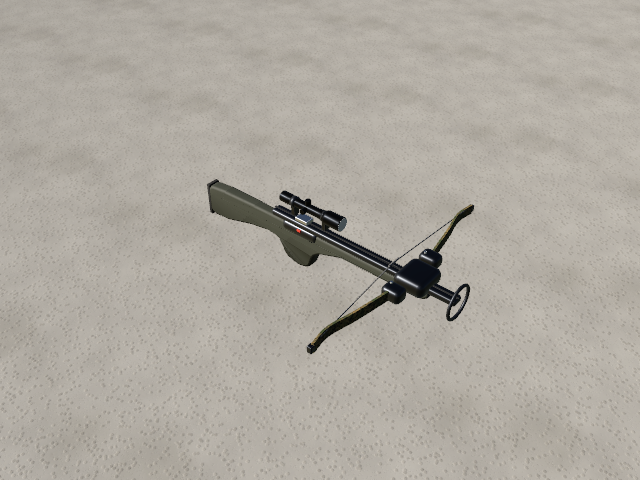
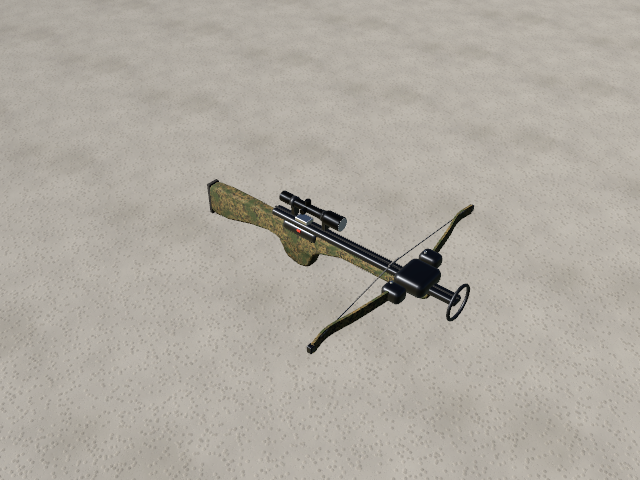
Fix bow/crossbow string joints; case-hardened, nickel, camo materials; sign off lever, break-action, crossbow

Changed region(s): [[0.3125, 0.375, 0.5312, 0.5312], [0.5312, 0.5312, 0.5938, 0.5625], [0.5938, 0.5625, 0.625, 0.5938]]

diff --git a/Sources/RealMaterials/Library/Hunting.swift b/Sources/RealMaterials/Library/Hunting.swift
@@ -12,7 +12,7 @@ public extension MaterialLibrary {
         // Hot-blued barrel and receiver steel: blue-black, polished lines.
         MaterialSpec(key: "metal.blued-steel", program: .brushedMetal).with {
             $0.colorA = linear(0x2B3542); $0.colorB = linear(0x161C25)
-            $0.knobs = V4(0.5, 0.34, 0.45, 0.35); $0.seed = 3302; $0.tileSize = 0.08; $0.normalStrength = 0.35
+            $0.knobs = V4(0.7, 0.4, 0.8, 0.8); $0.seed = 3302; $0.tileSize = 0.08; $0.normalStrength = 0.35
             $0.hasMetallicMap = true; $0.metallic = 1; $0.roughness = 0.34
         },
         // Parkerized / matte phosphate finish for bolts and small parts: grey-green, rough.
@@ -76,7 +76,7 @@ public extension MaterialLibrary {
         },
         // Powder-coated steel with chips, scuffs and grime at 22 cm repeat (ladder stand, hardware). Tint for colour.
         MaterialSpec(key: "metal.powdercoat-worn", program: .paintedMetal).with {
-            $0.colorA = linear(0x3A4430); $0.colorC = linear(0x7A7A74, 0.9); $0.knobs = V4(0.85, 0.75, 0.5, 0)
+            $0.colorA = linear(0x3A4430); $0.colorC = linear(0x7A7A74, 0.9); $0.knobs = V4(1.0, 0.9, 0.5, 0)
             $0.seed = 3315; $0.tileSize = 0.16; $0.hasMetallicMap = true; $0.normalStrength = 1.2; $0.roughness = 0.5
         },
         // Mud and surface rust splashed on steel feet: dark and desaturated.
@@ -86,8 +86,8 @@ public extension MaterialLibrary {
         },
         // Hunting blind canvas: heavy duck weave at 3 cm repeat with stains. Tint for colour.
         MaterialSpec(key: "fabric.blind", program: .fabricWeave).with {
-            $0.colorA = linear(0x6E7549); $0.colorB = linear(0x5A6040, 0.25); $0.colorC = linear(0x3A3226, 0.45)
-            $0.knobs = V4(36, 0.5, 0.9, 0); $0.seed = 3317; $0.tileSize = 0.03; $0.normalStrength = 3.4; $0.roughness = 0.9
+            $0.colorA = linear(0x8A9356); $0.colorB = linear(0x6E7448, 0.5); $0.colorC = linear(0x4A3E2C, 0.8)
+            $0.knobs = V4(36, 1.0, 0.9, 0); $0.seed = 3317; $0.tileSize = 0.03; $0.normalStrength = 3.4; $0.roughness = 0.9
         },
         // Pressed trace-mineral salt block: red-brown crystalline body, pale crystals, pits, light rain streaks.
         MaterialSpec(key: "stone.salt-block", program: .rockGranite).with {
@@ -98,6 +98,18 @@ public extension MaterialLibrary {
         // Dried mud and grime caked on gear: dark brown, rough, with dirt streaks.
         MaterialSpec(key: "plastic.grime", program: .plastic).with {
             $0.colorA = linear(0x4A3A2A); $0.knobs = V4(0.2, 0.9, 0.95, 0); $0.seed = 3319; $0.tileSize = 0.02; $0.resolution = 256; $0.normalStrength = 1.4
+        },
+        // Colour case-hardened receiver: steel with straw, blue and plum mottling from the quench.
+        MaterialSpec(key: "metal.case-hardened", program: .polishedMetal).with {
+            $0.colorA = linear(0x4E5258); $0.colorB = linear(0x6E5A44); $0.colorC = linear(0x34485E)
+            $0.knobs = V4(0.6, 0.4, 0, 0.38); $0.seed = 3320; $0.tileSize = 0.07; $0.normalStrength = 0.3
+            $0.hasMetallicMap = true; $0.metallic = 1; $0.roughness = 0.38
+        },
+        // Worn nickel plating: tarnished grey with dark spotting at 6 cm repeat.
+        MaterialSpec(key: "metal.nickel-worn", program: .polishedMetal).with {
+            $0.colorA = linear(0xB8BAB8); $0.colorB = linear(0x6E665A); $0.colorC = linear(0x58625A)
+            $0.knobs = V4(0.85, 0.35, 0, 0.36); $0.seed = 3321; $0.tileSize = 0.06; $0.normalStrength = 0.3
+            $0.hasMetallicMap = true; $0.metallic = 1; $0.roughness = 0.36
         },
     ]
 }

diff --git a/Sources/RealLibrary/Props/Hunting/Crossbow.swift b/Sources/RealLibrary/Props/Hunting/Crossbow.swift
@@ -18,7 +18,7 @@ public struct Crossbow: RealArticulated {
     public var drawLength: Float = 0.30
     /// Limb flex at full draw in degrees.
     public var limbFlex: Float = 10
-    public var stock: MaterialKey = "plastic.stock-synthetic:2A2E22"
+    public var stock: MaterialKey = "paint.bow-camo"
     public var limbs: MaterialKey = "paint.bow-camo"
     public var hardware: MaterialKey = "metal.anodized-gunmetal:3A3D42"
     public var string: MaterialKey = "fabric.bowstring"
@@ -37,7 +37,7 @@ public struct Crossbow: RealArticulated {
         rig.part("draw", pivot: P.p(V3(nockRest, sy, 0)), joint: .slide(axis: V3(-1, 0, 0), 0...drawLength, duration: 0.8))
         rig.part("limb-right", pivot: P.p(pivotR), joint: Joint(.revolute, axis: V3(0, 1, 0), range: -(limbFlex + 2)...(limbFlex + 2), mimic: .init("draw", ratio: -limbFlex / drawLength)))
         rig.part("limb-left", pivot: P.p(pivotL), joint: Joint(.revolute, axis: V3(0, 1, 0), range: -(limbFlex + 2)...(limbFlex + 2), mimic: .init("draw", ratio: limbFlex / drawLength)))
-        rig.part("string", pivot: P.p(V3(nockRest, sy, 0)), joint: Joint(.revolute, axis: V3(0, 1, 0), range: 0...0), options: Self.levels)
+        rig.part("string", pivot: P.p(V3(nockRest, sy, 0)), joint: .fixed, options: Self.levels)
         rig.part("trigger", pivot: P.p(V3(0.392, -0.040, 0)), joint: .hinge(axis: V3(0, 0, 1), -16...0, duration: 0.15))
         rig.part("safety", pivot: P.p(V3(0.380, -0.022, 0.0215)), joint: .slide(axis: V3(1, 0, 0), 0...0.008, duration: 0.1))
         rig.optionLinks = [RigOptionLink(part: "string", joint: "draw", thresholds: (1..<Self.levels).map { (Float($0) - 0.5) * drawLength / Float(Self.levels - 1) })]

diff --git a/Sources/RealLibrary/Props/Hunting/CompoundBow.swift b/Sources/RealLibrary/Props/Hunting/CompoundBow.swift
@@ -38,7 +38,7 @@ public struct CompoundBow: RealArticulated {
         rig.part("draw", pivot: P.p(V3(-brace, nockY, 0)), joint: .slide(axis: V3(-1, 0, 0), 0...drawLength, duration: 0.9))
         rig.part("cam-top", pivot: P.p(V3(ax, h, 0)), joint: Joint(.revolute, axis: V3(0, 0, 1), range: -camAngle...camAngle, mimic: .init("draw", ratio: camAngle / drawLength)))
         rig.part("cam-bottom", pivot: P.p(V3(ax, -h, 0)), joint: Joint(.revolute, axis: V3(0, 0, 1), range: -camAngle...camAngle, mimic: .init("draw", ratio: -camAngle / drawLength)))
-        rig.part("string", pivot: P.p(V3(-brace, nockY, 0)), joint: Joint(.revolute, axis: V3(0, 0, 1), range: 0...0), options: Self.levels)
+        rig.part("string", pivot: P.p(V3(-brace, nockY, 0)), joint: .fixed, options: Self.levels)
         rig.optionLinks = [RigOptionLink(part: "string", joint: "draw", thresholds: (1..<Self.levels).map { (Float($0) - 0.5) * drawLength / Float(Self.levels - 1) })]
 
         for lod in 0..<2 {

diff --git a/Sources/RealLibrary/Props/Hunting/LeverActionRifle.swift b/Sources/RealLibrary/Props/Hunting/LeverActionRifle.swift
@@ -63,7 +63,7 @@ public struct LeverActionRifle: RealArticulated {
                 rig.base[lod].add(HuntKit.box(V3(0.600, 0.0178, -0.0045), V3(0.010, 0.010, 0.0025), r: 0.0007, brightM), P.at())
             }
             // Receiver, loading gate, top ejection slot, tang.
-            rig.base[lod].add(HuntKit.box(V3(0.400, -0.0055, 0), V3(0.200, 0.061, 0.032), r: 0.011, steelM), P.at())
+            rig.base[lod].add(HuntKit.box(V3(0.400, -0.0055, 0), V3(0.200, 0.061, 0.032), r: 0.011, "metal.case-hardened"), P.at())
             rig.base[lod].add(HuntKit.box(V3(0.470, -0.006, 0.0165), V3(0.032, 0.022, 0.002), r: 0.0008, "metal.bolt-bright"), P.at())
             rig.base[lod].add(HuntKit.box(V3(0.400, 0.0252, 0), V3(0.120, 0.003, 0.013), r: 0.0008, "metal.parkerized"), P.at())
             rig.base[lod].add(HuntKit.box(V3(0.330, -0.020, 0), V3(0.080, 0.012, 0.022), r: 0.003, steelM), P.at())

diff --git a/Sources/RealLibrary/Props/Hunting/BreakActionShotgun.swift b/Sources/RealLibrary/Props/Hunting/BreakActionShotgun.swift
@@ -20,7 +20,7 @@ public struct BreakActionShotgun: RealArticulated {
     /// Barrel steel.
     public var steel: MaterialKey = "metal.blued-steel"
     /// Silvered action.
-    public var action: MaterialKey = "metal.bolt-bright"
+    public var action: MaterialKey = "metal.nickel-worn"
     public var pad: MaterialKey = "rubber.recoil-pad"
     public init() {}
 

diff --git a/CATALOG.md b/CATALOG.md
@@ -1020,10 +1020,10 @@ Generated by `swift run -q realityhd catalog`. Do not edit by hand.
 | [`glazed-terracotta-cladding-tile`](docs/assets/glazed-terracotta-cladding-tile.png) | prop, architecture, facade, decor | 6176 | 12000 | `concrete.smooth:C8C2B4` `ceramic.bisque` `ceramic.celadon:2F6E5E` `ceramic.celadon:1F4F44` `ceramic.celadon:C9A84A` `metal.galvanized` | realityhd | Glazed terracotta tile, 0.6 m square: stepped chevron relief in glossy faience glaze with crazing, buttered joints and anchor tabs. |
 | [`architectural-concrete-board-form-panel`](docs/assets/architectural-concrete-board-form-panel.png) | prop, architecture, facade, stone | 12232 | 15000 | `concrete.rough:8C877E` `concrete.rough:A39E92` `concrete.smooth:5A5853` `concrete.smooth:4A4844` `concrete.smooth:8E8B86` `concrete.rough:7A756D` | realityhd | Board-formed architectural concrete panel, 1.5 x 3.0 m: 150 mm timber board impressions, form-tie cones, chamfered edges and lift-joint weathering. |
 | [`bolt-action-rifle`](docs/assets/bolt-action-rifle.png) | prop, hunting, handheld, articulated, wood, metal | 14780 / 8528 | 15000 | `wood.walnut-stock` `rubber.recoil-pad` `plastic.stock-synthetic` `metal.blued-steel` `metal.parkerized` `metal.anodized-gunmetal:15171A` `plastic.lens-clear` `metal.bolt-bright` | realityhd | Bolt-action hunting rifle, 1.12 m: walnut stock, blued barrel and receiver, 3-9x40 scope, articulated bolt (handle lift, draw back, close). |
-| [`lever-action-rifle`](docs/assets/lever-action-rifle.png) | prop, hunting, handheld, articulated, wood, metal | 8904 / 6356 | 12000 | `wood.walnut-stock` `metal.blued-steel` `metal.bolt-bright` `metal.parkerized` | realityhd | Lever-action carbine, 0.99 m: walnut stock and forend, blued barrel with tube magazine, articulated lever, bolt and hammer. |
+| [`lever-action-rifle`](docs/assets/lever-action-rifle.png) | prop, hunting, handheld, articulated, wood, metal | 8904 / 6356 | 12000 | `wood.walnut-stock` `metal.blued-steel` `metal.bolt-bright` `metal.case-hardened` `metal.parkerized` | realityhd | Lever-action carbine, 0.99 m: walnut stock and forend, blued barrel with tube magazine, articulated lever, bolt and hammer. |
 | [`pump-shotgun`](docs/assets/pump-shotgun.png) | prop, hunting, handheld, articulated, wood, metal | 9906 / 5886 | 14000 | `wood.walnut-stock` `rubber.recoil-pad` `metal.blued-steel` `metal.parkerized` `metal.bolt-bright` `metal.cartridge-brass` `wood.walnut-stock:2A160C` | realityhd | Pump-action 12 gauge shotgun, 1.26 m: walnut stock, blued barrel over tube magazine, articulated sliding pump forend. |
-| [`break-action-shotgun`](docs/assets/break-action-shotgun.png) | prop, hunting, handheld, articulated, wood, metal | 8390 / 6562 | 14000 | `wood.walnut-stock` `rubber.recoil-pad` `metal.bolt-bright` `metal.blued-steel` `metal.cartridge-brass` | realityhd | Over-and-under 12 gauge, 1.12 m: walnut stock and forend, blued barrels, articulated break hinge and top lever. |
-| [`crossbow`](docs/assets/crossbow.png) | prop, hunting, handheld, articulated, metal, plastic | 12598 / 8387 | 14000 | `plastic.stock-synthetic:2A2E22` `rubber.recoil-pad` `metal.anodized-gunmetal:3A3D42` `plastic.stock-synthetic` `metal.bolt-bright` `metal.anodized-gunmetal:15171A` `plastic.lens-clear` `fabric.bowstring:2A2218` `paint.bow-camo` `fabric.bowstring` `plastic.fletching:C03020` | realityhd | Crossbow, 0.86 m: synthetic stock, recurve limbs, scope, articulated string (cocked and fired). |
+| [`break-action-shotgun`](docs/assets/break-action-shotgun.png) | prop, hunting, handheld, articulated, wood, metal | 8390 / 6562 | 14000 | `wood.walnut-stock` `rubber.recoil-pad` `metal.nickel-worn` `metal.blued-steel` `metal.bolt-bright` `metal.cartridge-brass` | realityhd | Over-and-under 12 gauge, 1.12 m: walnut stock and forend, blued barrels, articulated break hinge and top lever. |
+| [`crossbow`](docs/assets/crossbow.png) | prop, hunting, handheld, articulated, metal, plastic | 12598 / 8387 | 14000 | `paint.bow-camo` `rubber.recoil-pad` `metal.anodized-gunmetal:3A3D42` `plastic.stock-synthetic` `metal.bolt-bright` `metal.anodized-gunmetal:15171A` `plastic.lens-clear` `fabric.bowstring:2A2218` `fabric.bowstring` `plastic.fletching:C03020` | realityhd | Crossbow, 0.86 m: synthetic stock, recurve limbs, scope, articulated string (cocked and fired). |
 | [`arrow`](docs/assets/arrow.png) | prop, hunting, handheld, plastic, metal | 1436 | 2500 | `plastic.carbon-shaft` `plastic.fletching:F2F0E8` `plastic.stock-synthetic` `plastic.fletching:E0561A` `metal.bolt-bright` `plastic.grime` | realityhd | Carbon hunting arrow, 0.78 m: graphite shaft, three vanes, lighted nock, three-blade broadhead. |
 | [`crossbow-bolt`](docs/assets/crossbow-bolt.png) | prop, hunting, handheld, plastic, metal | 1364 | 2000 | `plastic.carbon-shaft` `plastic.fletching:7FD01A` `plastic.stock-synthetic` `plastic.fletching:E8E4D8` `metal.bolt-bright` `plastic.grime` | realityhd | Crossbow bolt, 0.42 m: carbon shaft, low vanes, half-moon nock, broadhead. |
 | [`rifle-cartridge`](docs/assets/rifle-cartridge.png) | prop, hunting, handheld, metal | 3032 | 3500 | `metal.cartridge-brass` `metal.bolt-bright` `metal.bullet-copper` `metal.bolt-bright:7A7E80` | realityhd | .308 Winchester cartridge, 71 mm: brass case with rim and primer, copper soft-point bullet. |
@@ -1319,8 +1319,8 @@ Live with `RealityHD.articulated(id)` or `scene.addLive`; bake one state with `b
 | [`lever-action-rifle`](docs/assets/lever-action-rifle.png) | closed, open, cocked, trigger | `lever` -62...0°, `trigger` -14...0°, `hammer` -38...0° | 8904-8904 |
 | [`pump-shotgun`](docs/assets/pump-shotgun.png) | closed, pumped, trigger | `pump` 0...0.075 m, `trigger` -14...0° | 9906-9906 |
 | [`break-action-shotgun`](docs/assets/break-action-shotgun.png) | closed, open, lever, trigger | `barrels` -32...0°, `top-lever` 0...28°, `trigger` -14...0° | 8390-8390 |
-| [`crossbow`](docs/assets/crossbow.png) | fired, half-cocked, cocked, trigger-pulled | `draw` 0...0.3 m, `string` 0...0°, `trigger` -16...0°, `safety` 0...0.008 m | 12598-12598 |
-| [`compound-bow`](docs/assets/compound-bow.png) | rest, half-draw, full-draw | `draw` 0...0.54 m, `string` 0...0° | 12186-12186 |
+| [`crossbow`](docs/assets/crossbow.png) | fired, half-cocked, cocked, trigger-pulled | `draw` 0...0.3 m, `trigger` -16...0°, `safety` 0...0.008 m | 12598-12598 |
+| [`compound-bow`](docs/assets/compound-bow.png) | rest, half-draw, full-draw | `draw` 0...0.54 m | 12186-12186 |
 | [`office-door`](docs/assets/office-door.png) | closed, ajar, open, unlatched | `leaf` -100...0°, `handle` -45...0° | 12760-12760 |
 | [`glass-door`](docs/assets/glass-door.png) | closed, ajar, open, open-in | `leaf` -95...95° | 6228-6228 |
 | [`elevator-doors`](docs/assets/elevator-doors.png) | closed, open, called, arriving | `left` 0...0.55 m | 8152-8152 |
@@ -2269,6 +2269,8 @@ Keys accept a hex tint suffix, e.g. `metal.painted:1F4E8C`.
 | `fabric.blind` | fabricWeave | 0.03 | 1024 | opaque | - |  |
 | `stone.salt-block` | rockGranite | 0.3 | 1024 | opaque | - | triplanar |
 | `plastic.grime` | plastic | 0.02 | 256 | opaque | - |  |
+| `metal.case-hardened` | polishedMetal | 0.07 | 1024 | opaque | - | metallic map |
+| `metal.nickel-worn` | polishedMetal | 0.06 | 1024 | opaque | - | metallic map |
 
 ## Texture programs
 
